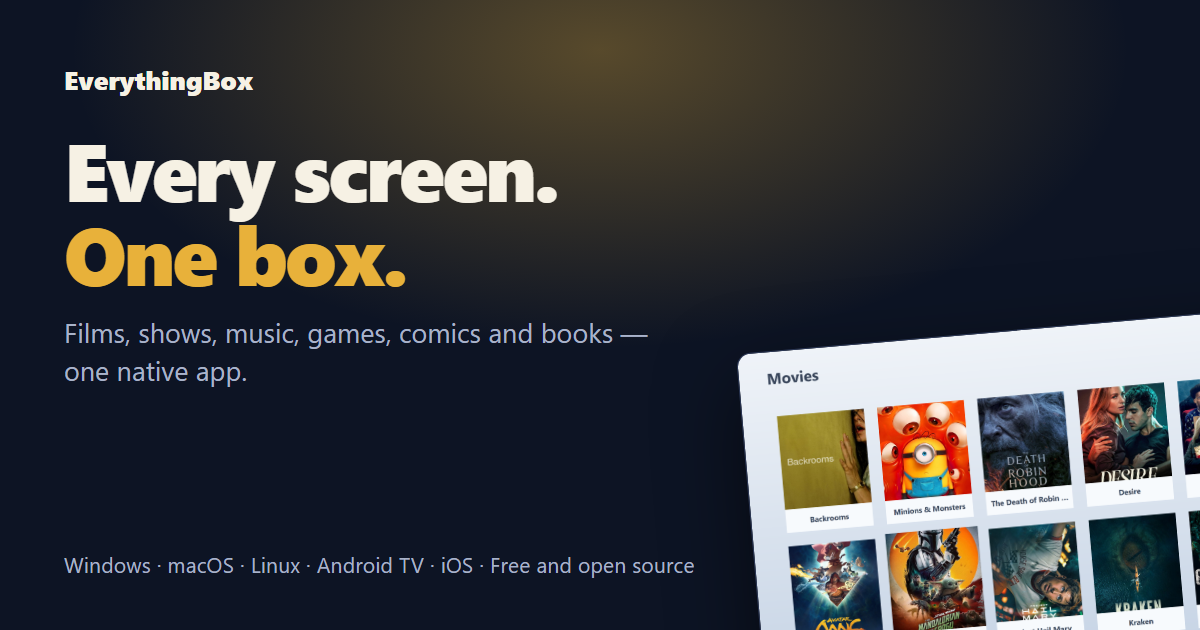
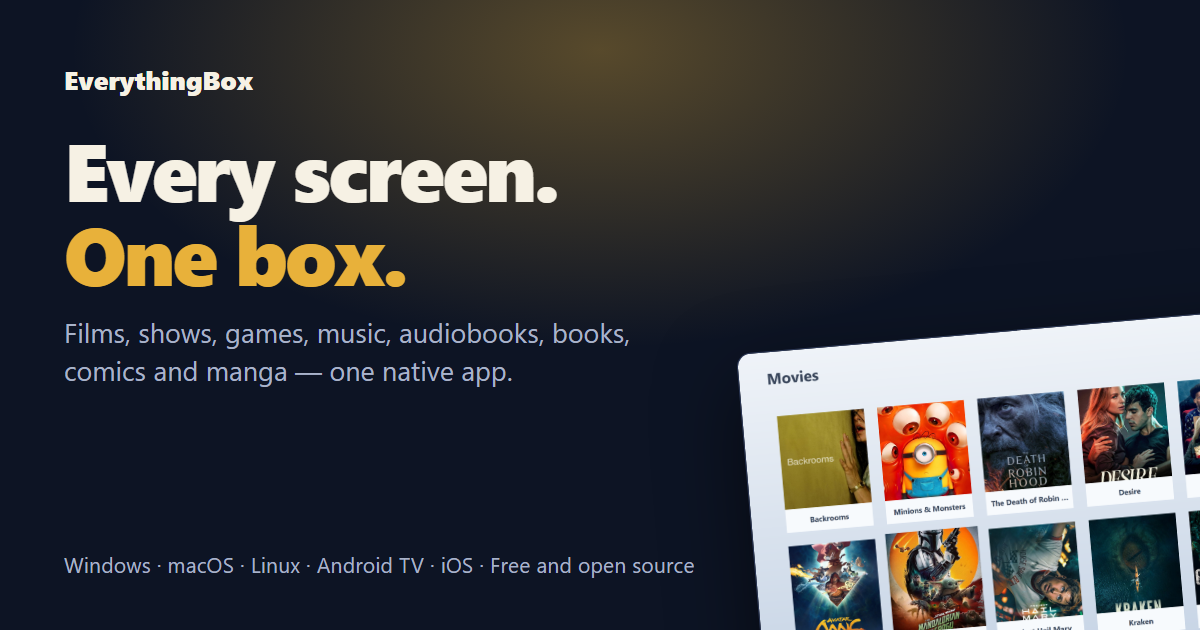
fix: the site advertised six kinds of media; the app ships eight
Audiobooks and Manga were missing from every page. The bundled AIO Catalog
addon declares eight catalogs — Movies, TV Shows, Games, Music, Books,
Audiobooks, Comics, Manga — and the app's home screen has a tile for each, but
the hero, the meta description, the OG card, the feature inventory and the docs
all listed six and stopped at "comics and books".

Rather than hand-correct the prose and let it drift again, the list is now
GENERATED from native/addons/aiocatalog/manifest.json by tools/gen-catalog.mjs,
the same way systems and emulators already are. The home page's counter reads
mediaKinds.length instead of a hardcoded 6.

tests/media-kinds.test.ts pins it: eight kinds, Audiobooks and Manga present,
the home page and feature inventory actually name them, and the printed count
matches the generated list rather than a number someone typed.

It also asserts the site does NOT claim Live TV or Live Sports. The app has home
tiles for both and MediaCategories.h routes them, but nothing bundled provides a
catalog for either — they are filled by addons a user installs, so advertising
them would promise something a fresh install does not do.

Changed region(s): [[0.0617, 0.5127, 0.5242, 0.6032]]

diff --git a/tests/media-kinds.test.ts b/tests/media-kinds.test.ts
@@ -1,0 +1,65 @@
+import { describe, it, expect } from 'vitest';
+import { readFileSync, readdirSync } from 'node:fs';
+import { join } from 'node:path';
+import { mediaKinds } from '../src/data/mediaKinds';
+import { features } from '../src/data/features';
+
+// This suite exists because the site shipped advertising six kinds of media while the
+// app shipped eight — Audiobooks and Manga were missing from every page. The generated
+// list is now the source of truth; these tests make sure the prose keeps up with it.
+describe('media kinds', () => {
+  it('carries every catalog the bundled addon ships', () => {
+    expect(mediaKinds).toHaveLength(8);
+  });
+
+  it('includes the two that were missing', () => {
+    const names = mediaKinds.map((k) => k.name);
+    expect(names).toContain('Audiobooks');
+    expect(names).toContain('Manga');
+  });
+
+  it('has no duplicate types', () => {
+    expect(new Set(mediaKinds.map((k) => k.type)).size).toBe(mediaKinds.length);
+  });
+});
+
+function allHtml(dir: string, out: string[] = []): string[] {
+  for (const e of readdirSync(dir, { withFileTypes: true })) {
+    const p = join(dir, e.name);
+    if (e.isDirectory()) allHtml(p, out);
+    else if (e.name.endsWith('.html')) out.push(p);
+  }
+  return out;
+}
+
+describe('the site actually says so', () => {
+  it('names audiobooks and manga on the home page', () => {
+    const home = readFileSync('dist/index.html', 'utf8').toLowerCase();
+    expect(home, 'home page never mentions audiobooks').toContain('audiobook');
+    expect(home, 'home page never mentions manga').toContain('manga');
+  });
+
+  it('names them in the feature inventory too', () => {
+    const all = features.map((f) => `${f.title} ${f.body}`).join(' ').toLowerCase();
+    expect(all).toContain('audiobook');
+    expect(all).toContain('manga');
+  });
+
+  it('never advertises a count that contradicts the generated list', () => {
+    // The home page prints mediaKinds.length; guard against someone hardcoding it back.
+    const home = readFileSync('dist/index.html', 'utf8');
+    expect(home).toContain(`>${mediaKinds.length}</p>`);
+    expect(home).not.toMatch(/>6<\/p>\s*<p[^>]*>\s*kinds of media/);
+  });
+
+  it('does not claim live TV or sports, which no bundled catalog provides', () => {
+    // The app has home tiles for these, but they are filled by addons the user installs —
+    // nothing ships that provides them, so the site must not advertise them.
+    const types = mediaKinds.map((k) => k.type);
+    expect(types).not.toContain('livetv');
+    for (const f of allHtml('dist')) {
+      const html = readFileSync(f, 'utf8').toLowerCase();
+      expect(html, `${f} advertises live TV`).not.toMatch(/\blive tv\b/);
+    }
+  });
+});

diff --git a/src/data/features.ts b/src/data/features.ts
@@ -12,8 +12,8 @@ export const features: Feature[] = [
   },
   {
     group: 'Playback',
-    title: 'Music with real playlists',
-    body: 'MP3, FLAC, OGG, WAV and more, with folder queueing, previous and next, and automatic advance at the end of a track.',
+    title: 'Music, audiobooks and podcasts',
+    body: 'MP3, FLAC, OGG, WAV and more, with folder queueing, previous and next, and automatic advance at the end of a track. Audiobooks and podcasts are first-class alongside music, and resume where you stopped.',
   },
   {
     group: 'Playback',
@@ -39,8 +39,8 @@ export const features: Feature[] = [
   },
   {
     group: 'Library',
-    title: 'Artwork and metadata',
-    body: 'Posters, logos, banners, backdrops and descriptions arrive through catalog addons, so a shelf of filenames becomes something you can browse by cover.',
+    title: 'Eight kinds of media, one library',
+    body: 'Films, shows, games, music, audiobooks, books, comics and manga each get their own catalog, with posters, logos, banners, backdrops and descriptions — so a shelf of filenames becomes something you can browse by cover.',
   },
   {
     group: 'Library',
@@ -109,7 +109,7 @@ export const features: Feature[] = [
   {
     group: 'Reading',
     title: 'Comics and manga',
-    body: 'CBZ and CBR, page by page, in the same library as everything else.',
+    body: 'CBZ and CBR, page by page, each with its own catalog in the library alongside books and audiobooks.',
   },
 
   // ---- Extensibility ----

diff --git a/src/data/mediaKinds.ts b/src/data/mediaKinds.ts
@@ -1,0 +1,37 @@
+// GENERATED by tools/gen-catalog.mjs from the EverythingBox app repo. Do not edit by hand.
+import type { MediaKind } from './types';
+
+export const mediaKinds: MediaKind[] = [
+  {
+    "type": "movie",
+    "name": "Movies"
+  },
+  {
+    "type": "series",
+    "name": "TV Shows"
+  },
+  {
+    "type": "game",
+    "name": "Games"
+  },
+  {
+    "type": "album",
+    "name": "Music"
+  },
+  {
+    "type": "book",
+    "name": "Books"
+  },
+  {
+    "type": "audiobook",
+    "name": "Audiobooks"
+  },
+  {
+    "type": "comic",
+    "name": "Comics"
+  },
+  {
+    "type": "manga",
+    "name": "Manga"
+  }
+];

diff --git a/src/data/types.ts b/src/data/types.ts
@@ -13,6 +13,14 @@ export interface Emulator {
   homepage: string;
 }
 
+/** A kind of media the bundled catalog addon ships a catalog for. */
+export interface MediaKind {
+  /** The catalog type token, e.g. "audiobook". */
+  type: string;
+  /** The name shown in the app, e.g. "Audiobooks". */
+  name: string;
+}
+
 export interface Platform {
   id: string;
   name: string;
